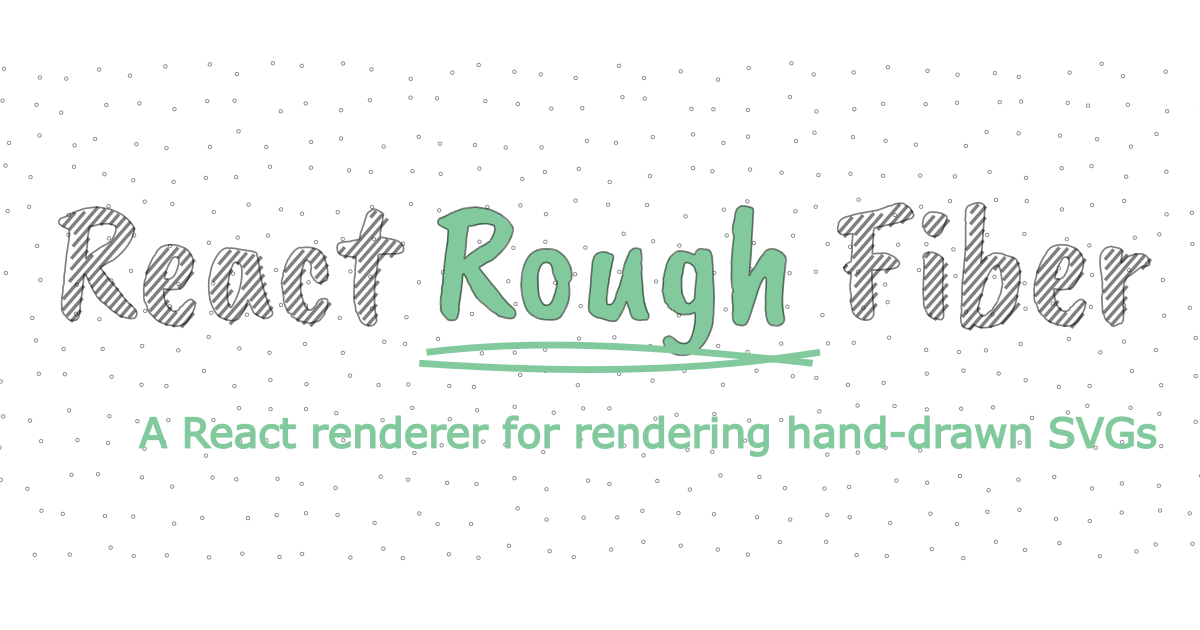
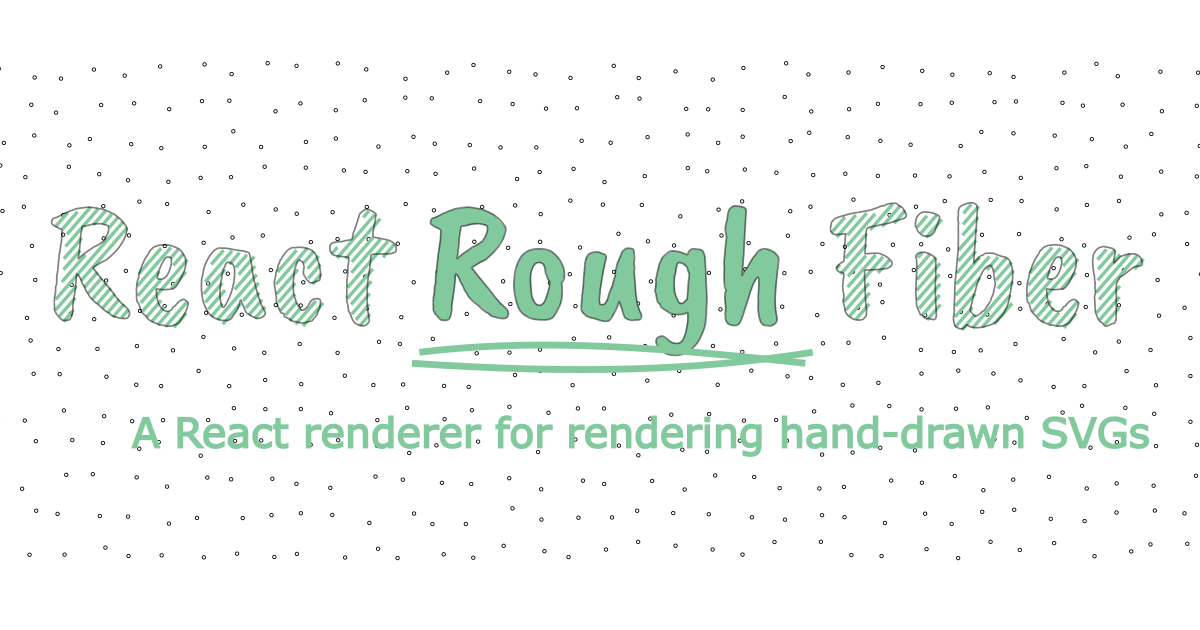
update images

diff --git a/apps/docs/components/banner/index.tsx b/apps/docs/components/banner/index.tsx
@@ -45,6 +45,7 @@ export const Banner = () => {
     <>
       <RoughSVG options={options} className="mt-12">
         <svg
+          xmlns="http://www.w3.org/2000/svg"
           viewBox="0 0 760 200"
           width="100%"
           fill="#82ca9d"

diff --git a/README.md b/README.md
@@ -1,3 +1,3 @@
 # React Rough Fiber
 
-![og](https://user-images.githubusercontent.com/27432981/233127392-98862a6b-7f42-4741-ac26-d8e893308027.png)
+![banner](https://user-images.githubusercontent.com/27432981/233131378-c768be2b-834d-4900-8a9c-cfe338426929.png)
